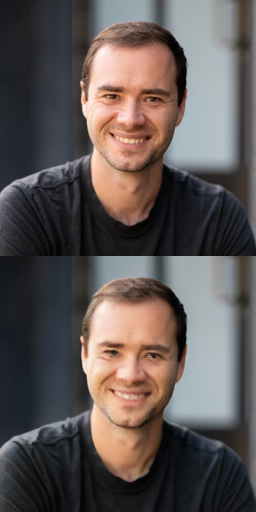
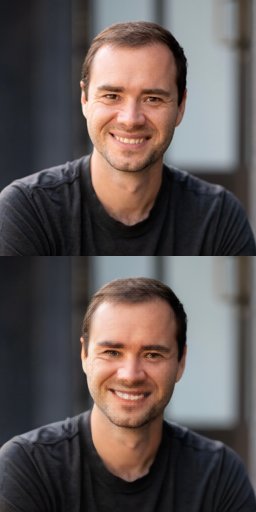
remove batchnorm from inference, change num threads

Changed region(s): [[0.3125, 0.6562, 0.6562, 0.875], [0.3438, 0.5625, 0.4688, 0.625], [0.0938, 0.8438, 0.125, 0.875]]

diff --git a/src/train.py b/src/train.py
@@ -1,33 +1,19 @@
-import os
-import sys
-import time
 import contextlib
-from pathlib import Path
+import os
+import time
 
-import datasets
 import lpips
-import matplotlib.pyplot as plt
 import torch
 import torch._functorch.config
-import torch.nn as nn
-import torch.nn.functional as F
-import torch._inductor.config as inductor_config
 
 # ddp
-import torch.multiprocessing as mp
 import torch.distributed as dist
-from torch.utils.data.distributed import DistributedSampler
-from torch.nn.parallel import DistributedDataParallel as DDP
-
-import wandb
+import torch.nn.functional as F
 from datasets import load_dataset
-from PIL import Image
-from autoencoder import Autoencoder
-from discriminator import Discriminator
-from ema import EMA
-from model import DiT
+from torch import nn
+from torch.nn.parallel import DistributedDataParallel as DDP
+from torch.utils.data.distributed import DistributedSampler
 from torchvision import transforms
-from torchvision.transforms import ToPILImage, ToTensor
 from transformers import (
     AutoImageProcessor,
     AutoModel,
@@ -35,6 +21,13 @@ from transformers import (
     CLIPTextModelWithProjection,
     T5EncoderModel,
 )
+
+import wandb
+from autoencoder import Autoencoder
+
+#from discriminator import Discriminator
+from ema import EMA
+from model import DiT
 
 
 def main() -> None:
@@ -56,10 +49,10 @@ def main() -> None:
 
     ddp = "LOCAL_RANK" in os.environ
 
-    n_threads = 4
-    torch.set_num_threads(n_threads)
+    world_size = os.environ["WORLD_SIZE"]
+    torch.set_num_threads(world_size)
 
-    torch.set_num_interop_threads(n_threads)
+    torch.set_num_interop_threads(world_size)
     torch.multiprocessing.set_start_method("spawn", force=True)
 
     if ddp:
@@ -67,7 +60,7 @@ def main() -> None:
 
         ddp_rank = int(os.environ["LOCAL_RANK"])
         if ddp_rank == 0:
-            print(f"ddp set up | world size: {dist.get_world_size()}")
+            print(f"ddp set up | world size: {world_size}")
 
         import logging
 
@@ -284,6 +277,7 @@ def main() -> None:
         "proj_conv": [torch.optim.AdamW(proj_conv.parameters(), lr=lr_ae, fused=True)],
     }
 
+    # TODO: use streaming? 200k images might not be enough
     ds = load_dataset("arrow", data_files="data/filtered_ds/*.arrow", split="train")
 
     transform = transforms.Compose(

diff --git a/src/test_dit.py b/src/test_dit.py
@@ -128,7 +128,7 @@ ae = Autoencoder(
 )
 
 ae = ae.to(device)
-ae.load_state_dict({k.replace("orig_mod." + "module." if ddp else "", ""): v for k, v in torch.load(os.path.join(MODEL_PATH, "ae.pth")).items()})
+ae.load_state_dict({k.replace("orig_mod." + ("module." if ddp else ""), ""): v for k, v in torch.load(os.path.join(MODEL_PATH, "ae.pth")).items()})
 
 latent_size = img_size // 2 ** (len(ae.encoder.channels) - 1)
 
@@ -158,13 +158,14 @@ dit = DiT(
 )
 
 dit = dit.to(device)
-dit.load_state_dict({k.replace("_orig_mod." + "module." if ddp else "", ""): v for k, v in torch.load(os.path.join(MODEL_PATH, "dit.pth")).items()})
+dit.load_state_dict({k.replace("_orig_mod." + ("module." if ddp else ""), ""): v for k, v in torch.load(os.path.join(MODEL_PATH, "dit.pth")).items()})
 
 
 
-pre_bn = nn.BatchNorm2d(z_channels, affine=False).to(device)
-pre_bn.load_state_dict(torch.load(os.path.join(MODEL_PATH, "bn.pth")))
-pre_bn.eval()
+# pre_bn = nn.BatchNorm2d(z_channels, affine=False).to(device)
+# pre_bn.load_state_dict(torch.load(os.path.join(MODEL_PATH, "bn.pth")))
+# print(pre_bn.state_dict())
+# pre_bn.eval()
 
 with torch.no_grad():
     while (prompt := input("Enter a prompt: ")).lower() not in {"q", "quit"}:
@@ -172,10 +173,10 @@ with torch.no_grad():
         clip_tokens = clip_tokenizer.encode(prompt, return_tensors="pt").to(device)
 
         latent = torch.randn(1, z_channels, latent_size, latent_size).to(device) # ae.encode(to_tensor(Image.open("test_img2.png").convert("RGB").resize((img_size, img_size))).unsqueeze(0).to(device))[0]
-        latent = pre_bn(latent)
+        # latent = pre_bn(latent)
 
         for timestep in tqdm(range(GENERATION_STEPS + 1)):
-            t = (TIMESHIFT_ALPHA * (timestep / GENERATION_STEPS)) / (1 + (TIMESHIFT_ALPHA - 1) * (timestep / GENERATION_STEPS))
+            t = timestep/GENERATION_STEPS #(TIMESHIFT_ALPHA * (timestep / GENERATION_STEPS)) / (1 + (TIMESHIFT_ALPHA - 1) * (timestep / GENERATION_STEPS))
             
             dit_out = dit(latent, tokens, clip_tokens, torch.tensor([t * (dit.n_timesteps - 1)]).long().view(-1, 1, 1, 1).to(device))
             latent = latent + dit_out / GENERATION_STEPS

diff --git a/src/test_vae.py b/src/test_vae.py
@@ -44,6 +44,8 @@ print(input_img.size())
 
 latent, mu, logvar = ae.encode(input_img)
 
+print(latent.mean(), latent.std())
+
 out = ae.decode(mu)
 
 print(f"Compression: {input_img.numel() / latent.numel():.2f}x")
